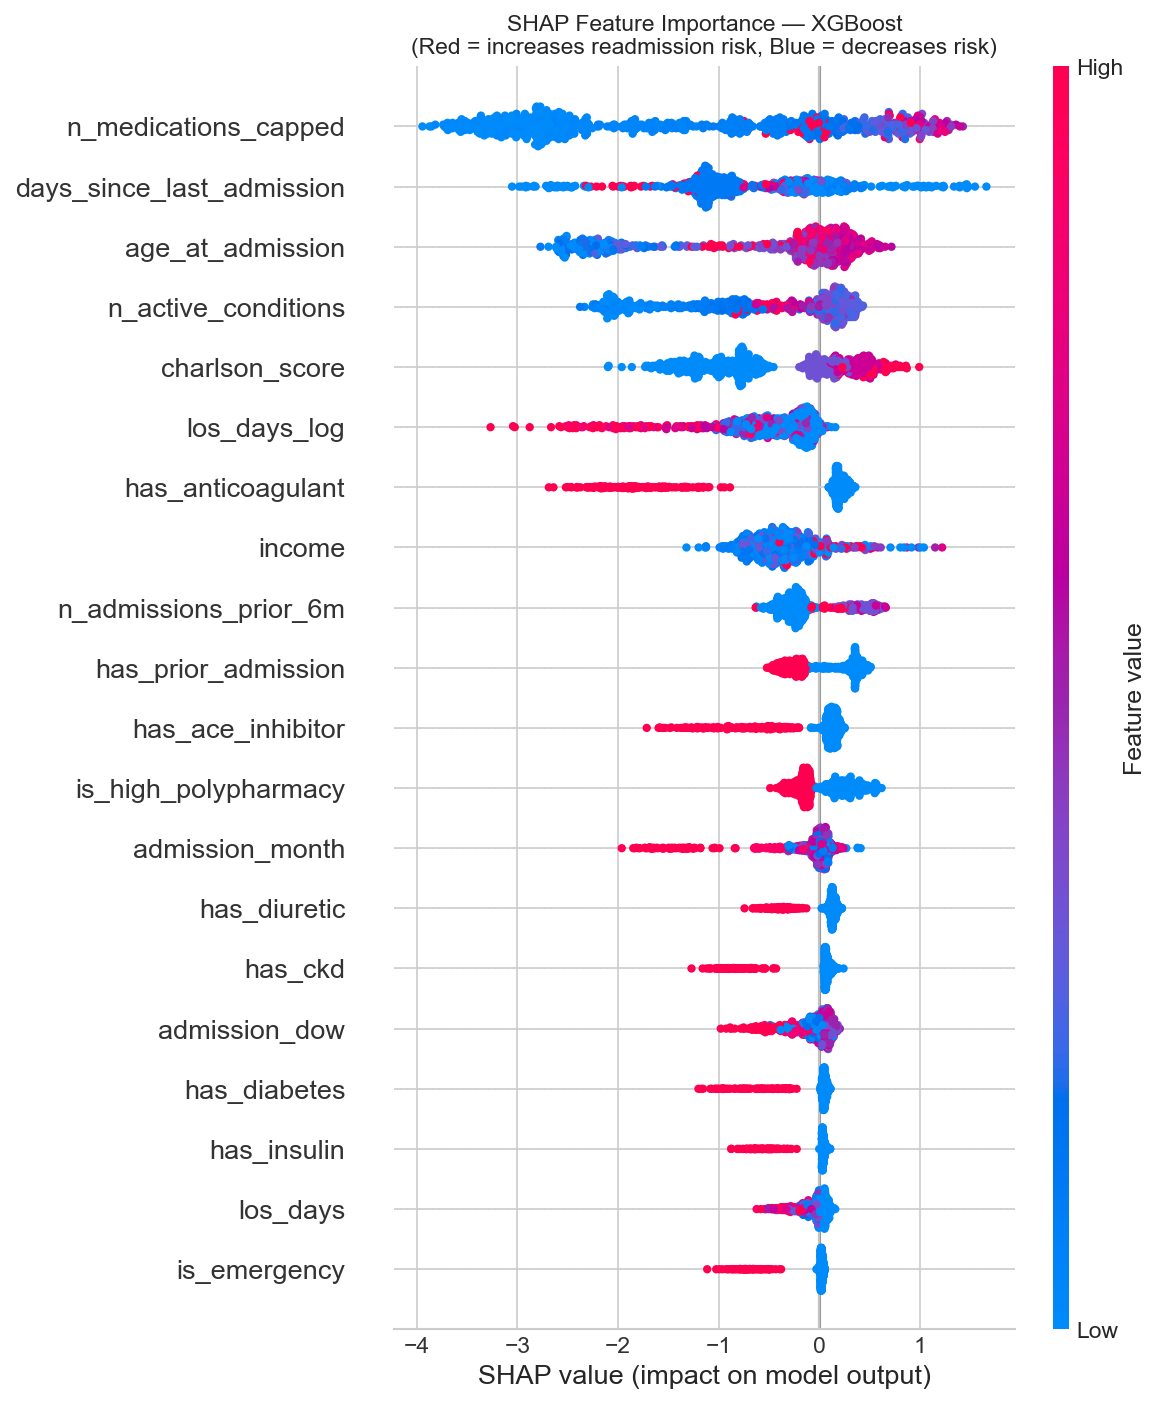
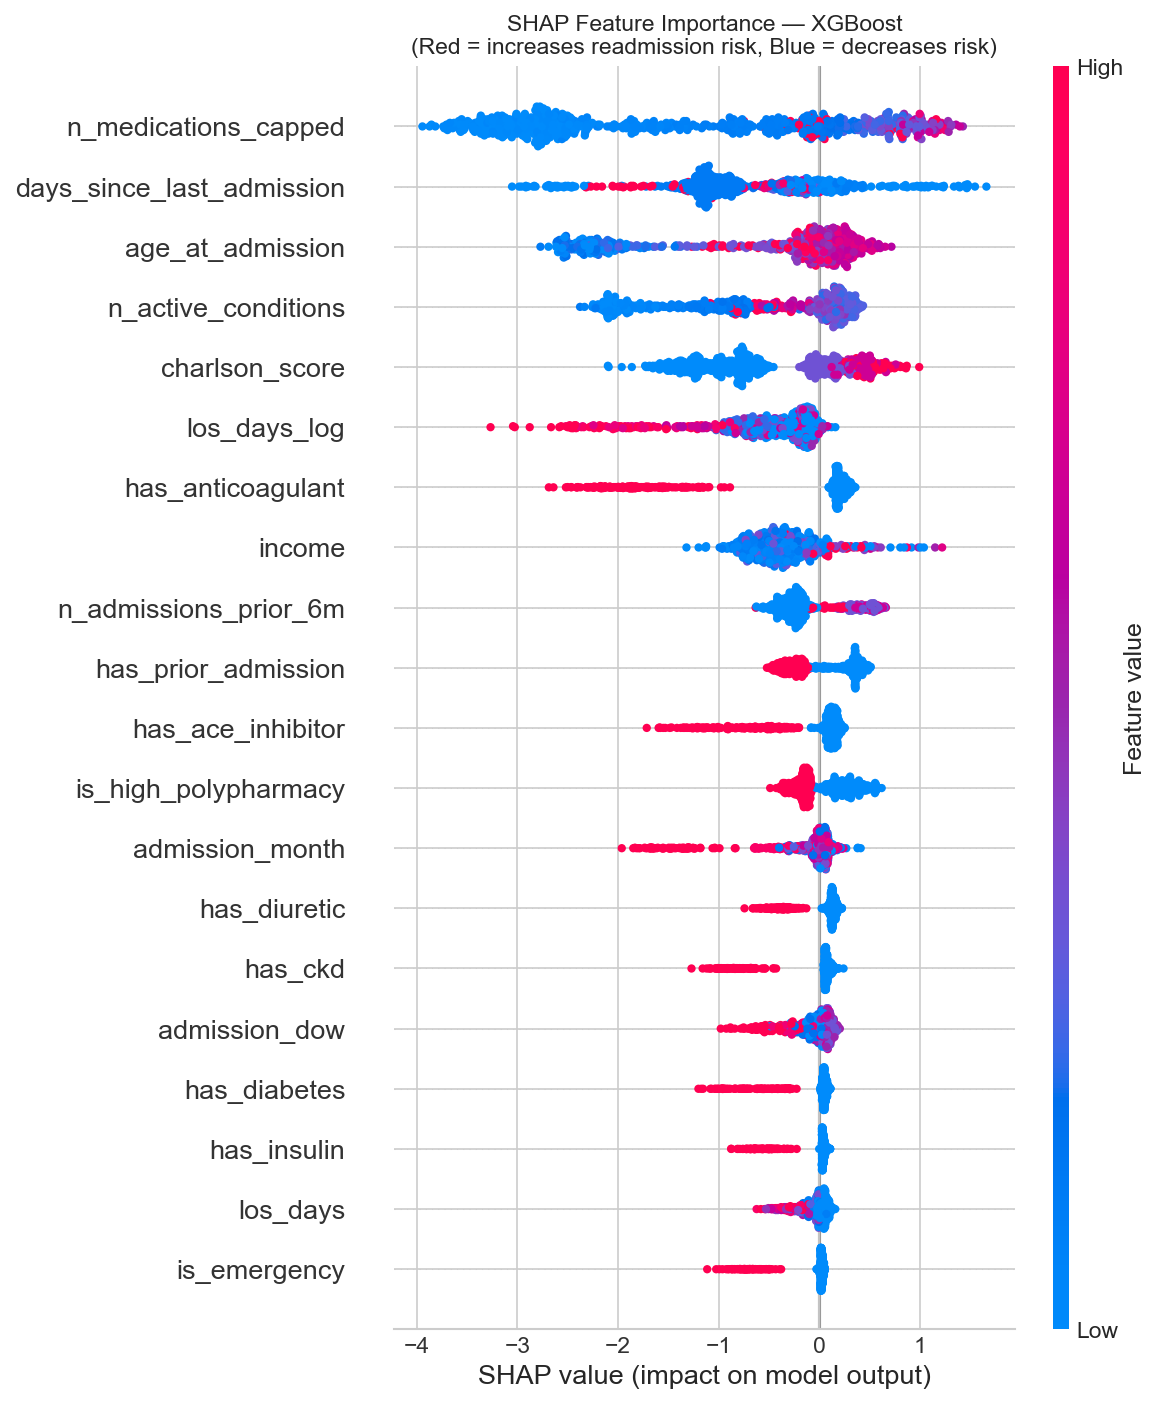
d

diff --git a/frontend/components/patient-form.tsx b/frontend/components/patient-form.tsx
@@ -139,12 +139,12 @@ export function PatientForm({ value, onChange, onSubmit, loading }: PatientFormP
           options={["Male", "Female"]}
         />
         <NumberField
-          label="Annual income ($)"
-          min={0}
-          step={1000}
-          value={value.annualIncome}
-          onChange={(v) => set("annualIncome", v)}
-        />
+        label="Annual income ($)"
+        min={0}
+        step={1}        // ← change from 1000 to 1
+        value={value.annualIncome}
+        onChange={(v) => set("annualIncome", v)}
+      />
         <NumberField
           label="Charlson score"
           min={0}
